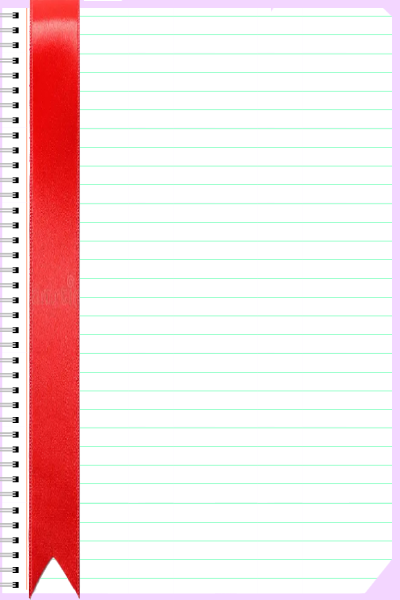
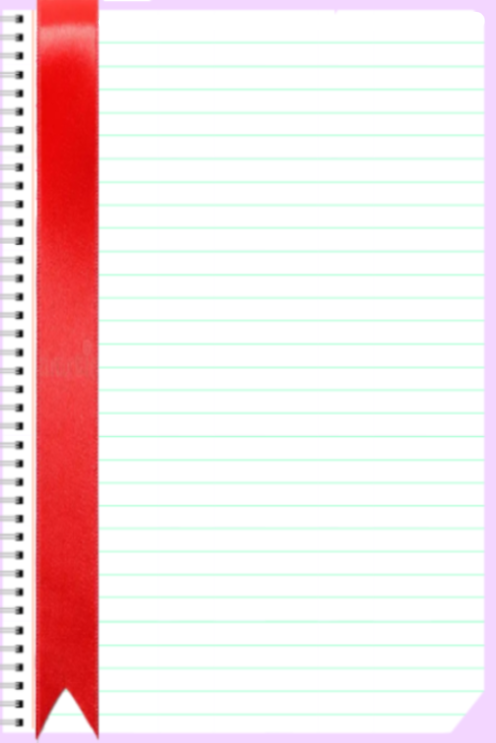
Adding background canvas for sub-window

diff --git a/main.py b/main.py
@@ -1,5 +1,7 @@
 #Birthday Reminder - ver       by      Dr.M-Dev
 import time
+
+from numpy.ma.core import size
 from pandas.core.window.doc import kwargs_scipy
 from rdflib.plugins.sparql.parserutils import value
 
@@ -8,7 +10,7 @@ ver = "0.1.1.12"
 from tkinter import *
 import customtkinter
 from PIL import Image, ImageTk
-from customtkinter import CTkLabel, CTkImage
+from customtkinter import CTkLabel, CTkImage, CTkCanvas
 #----time:
 import datetime as dt
 #----gif:
@@ -433,10 +435,22 @@ def check_dates_list():
 
     # __________________________________________________
     ##################Art / Images
-    notebook_bg_img = CTkImage(Image.open("images/notebook_bg.png"), size=(400, 600))
+    notebook_bg_img = PhotoImage(file="images/notebook_bg.png", width=600, height=800)
     #
-    notebook_bg_widget = CTkLabel(check_dates_window, text="", image=notebook_bg_img, )
-    notebook_bg_widget.place(x=-15, y=-15)
+    nb_canvas_width = 1000
+    nb_canvas_height = 1541
+    notebook_canvas = CTkCanvas(check_dates_window, width=nb_canvas_width, height=nb_canvas_height)
+    notebook_canvas.place(x=-20, y=-17)
+    #
+    notebook_bg = notebook_canvas.create_image( 0,0,image =notebook_bg_img)
+    #
+    notebook_canvas.moveto(notebook_bg, -5, -2)
+
+    #old:
+    # notebook_bg_img = CTkImage(Image.open("images/notebook_bg.png"), size=(400, 600))
+    # #
+    # notebook_bg_widget = CTkLabel(check_dates_window, text="", image=notebook_bg_img, )
+    # notebook_bg_widget.place(x=-15, y=-15)
 
 
     #__________________________________________________
